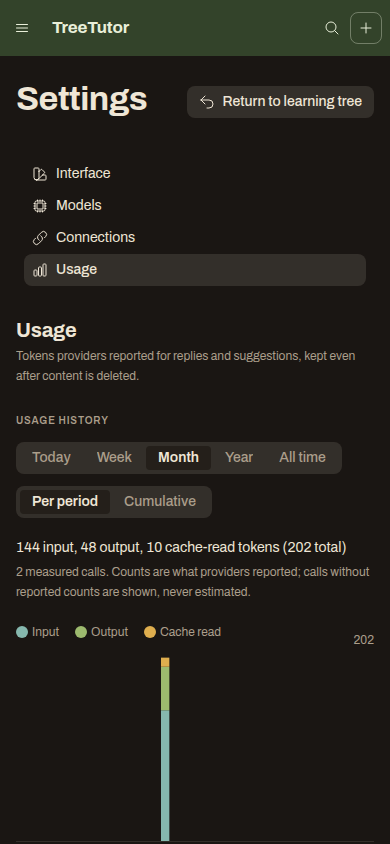
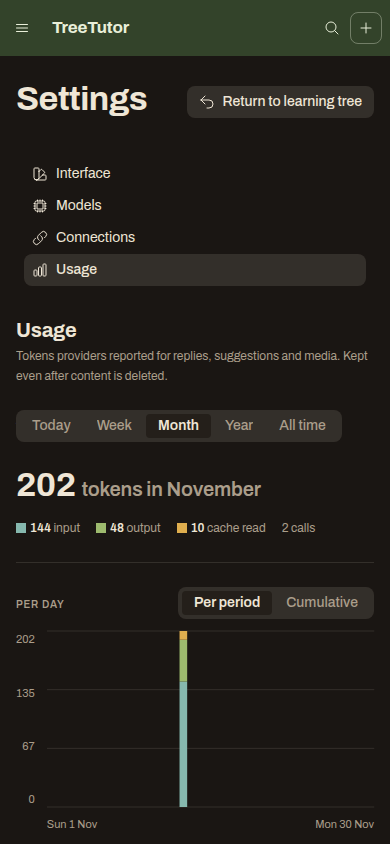
task: TreeTutor-2li.11 Usage page redesign

diff --git a/src/UsageDashboard.tsx b/src/UsageDashboard.tsx
@@ -11,38 +11,47 @@ import { breakdown, buckets, label, span, total, totals, type Totals, type Usage
 const SERIES = [['input', 'Input'], ['output', 'Output'], ['cacheRead', 'Cache read']] as const;
 const TASKS: Record<string, string> = { chat: 'Chat replies', suggestions: 'Suggestions', compaction: 'Context preparation', diagram: 'Visuals and diagrams', video: 'Videos' };
 const n = (v: number) => v.toLocaleString();
-const counts = (t: Totals) => `${n(t.input)} input, ${n(t.output)} output, ${n(t.cacheRead)} cache-read tokens (${n(total(t))} total)`;
-const calls = (t: Totals) => `${n(t.calls)} measured call${t.calls === 1 ? '' : 's'}${t.unavailable ? `, ${n(t.unavailable)} without reported counts` : ''}`;
+const counts = (t: Totals) => !t.calls && t.unavailable ? 'Token counts not reported' : `${n(t.input)} input, ${n(t.output)} output, ${n(t.cacheRead)} cache-read tokens (${n(total(t))} total)`;
+const calls = (t: Totals) => `${n(t.calls + t.unavailable)} call${t.calls + t.unavailable === 1 ? '' : 's'}${t.unavailable ? `, ${n(t.unavailable)} without reported counts` : ''}`;
 // A group with only unreported calls shows a dash, not zero tokens.
-const cell = (r: any, key: string) => r.calls === 0 && r.unavailable ? '—' : n(r[key]);
-const columns = (first: string) => [{ key: 'name', header: first, width: proportional(2) }, ...['input', 'output', 'cacheRead', 'total'].map(key => ({ key, header: SERIES.find(([k]) => k === key)?.[1] ?? 'Total', align: 'end' as const, renderCell: (r: any) => cell(r, key) })),
-  ...([['calls', 'Calls'], ['unavailable', 'Unreported']] as const).map(([key, header]) => ({ key, header, align: 'end' as const, renderCell: (r: any) => n(r[key]) }))];
+const cell = (r: Totals, key: 'input' | 'output' | 'cacheRead' | 'total') => r.calls === 0 && r.unavailable ? '—' : n(key === 'total' ? total(r) : r[key]);
+type Row = ReturnType<typeof breakdown>[number];
+const columns = (first: string, sum?: Totals) => [{ key: 'name', header: first, width: proportional(2, { minWidth: 180 }), renderCell: (r: Row) => {
+  const share = sum && total(sum) ? r.total / total(sum) * 100 : 0;
+  return <div className="usage-name">{r.name}{sum && <span className="usage-share" role="img" aria-label={`${share.toLocaleString(undefined, { maximumFractionDigits: 1 })}% of reported tokens`}><i style={{ width: `${share}%` }} /></span>}</div>;
+} }, ...(['input', 'output', 'cacheRead', 'total'] as const).map(key => ({ key, header: SERIES.find(([k]) => k === key)?.[1] ?? 'Total', width: proportional(1, { minWidth: key === 'cacheRead' ? 90 : 75 }), align: 'end' as const, renderCell: (r: Row) => cell(r, key) })),
+{ key: 'calls', header: 'Calls', width: proportional(1, { minWidth: 90 }), align: 'end' as const, renderCell: (r: Row) => <span>{n(r.calls + r.unavailable)}{r.unavailable > 0 && <small className="usage-unreported">{n(r.unavailable)} unreported</small>}</span> }];
 
 // Reads saved usage records only; viewing never calls a model.
-export default function UsageDashboard({ api }: { api: (path: string) => Promise<any> }) {
+export default function UsageDashboard({ api, providers }: { api: (path: string) => Promise<any>; providers?: Record<string, { label: string }> }) {
   const now = new Date();
   const [range, setRange] = useState<UsageRange>('month');
   const [year, setYear] = useState(now.getFullYear());
   const [cumulative, setCumulative] = useState(false);
-  const [data, setData] = useState<{ first: number | null; events: UsageEvent[] } | null>(null);
+  const [group, setGroup] = useState('model');
+  const [data, setData] = useState<{ first: number | null; events: UsageEvent[]; selection: string } | null>(null);
   const [error, setError] = useState('');
   const [active, setActive] = useState(-1);
   const chart = useRef<SVGSVGElement>(null);
+  const selection = `${range}:${year}`;
   useEffect(() => {
     let current = true;
+    setError('');
     const s = span(range, new Date(), year, null);
-    api(range === 'all' ? '/api/usage' : `/api/usage?from=${+s.from}&to=${+s.to}`).then(d => { if (current) { setData(d); setError(''); setActive(-1); } }, e => { if (current) setError(e.message); });
+    api(range === 'all' ? '/api/usage' : `/api/usage?from=${+s.from}&to=${+s.to}`).then(d => { if (current) { setData({ ...d, selection }); setActive(-1); } }, e => { if (current) setError(e.message); });
     return () => { current = false; };
   }, [range, year]);
 
   const s = span(range, now, year, data?.first ?? null), unit = s.unit;
-  const events = data?.events ?? [], rows = buckets(events, s, cumulative), sum = totals(events);
+  const ready = data?.selection === selection;
+  const events = ready ? data.events : [], rows = buckets(events, s, cumulative), sum = totals(events);
   const max = Math.max(1, ...rows.map(total)), shown = rows[active];
+  const rangeLabel = { today: 'today', week: 'this week', month: `in ${now.toLocaleDateString(undefined, { month: 'long' })}`, year: `in ${year}`, all: 'all time' }[range];
   const years = Array.from({ length: now.getFullYear() - new Date(data?.first ?? now).getFullYear() + 1 }, (_, i) => String(now.getFullYear() - i));
   const move = (i: number) => { const next = Math.max(0, Math.min(rows.length - 1, i)); setActive(next); chart.current?.querySelectorAll<SVGGElement>('.usage-bar')[next]?.focus(); };
   const periodLabel = (i: number) => label(rows[i].start, unit) + (cumulative ? ' (cumulative)' : '');
 
-  return <VStack gap={5}>
+  return <VStack gap={6} className="usage-dashboard" aria-busy={!ready && !error}>
     <HStack gap={3} wrap="wrap" vAlign="end">
       <SegmentedControl label="Usage range" value={range} onChange={v => setRange(v as UsageRange)}>
         <SegmentedControlItem value="today" label="Today" />
@@ -52,47 +61,63 @@ export default function UsageDashboard({ api }: { api: (path: string) => Promise
         <SegmentedControlItem value="all" label="All time" />
       </SegmentedControl>
       {range === 'year' && <Selector label="Year" isLabelHidden options={years} value={String(year)} onChange={v => setYear(Number(v))} width="7rem" />}
-      <SegmentedControl label="Chart view" value={cumulative ? 'cumulative' : 'trend'} onChange={v => setCumulative(v === 'cumulative')}>
-        <SegmentedControlItem value="trend" label="Per period" />
-        <SegmentedControlItem value="cumulative" label="Cumulative" />
-      </SegmentedControl>
     </HStack>
     {error && <Banner status="error" title="Usage history could not load" description={error} />}
-    {data && <>
-      {events.length > 0 && <VStack gap={1}>
-        <Text className="usage-total">{counts(sum)}</Text>
-        <Text type="supporting" color="secondary">{calls(sum)}. Counts are what providers reported; calls without reported counts are shown, never estimated.</Text>
-      </VStack>}
+    {!ready && !error && <Text color="secondary" role="status">Loading usage history…</Text>}
+    {ready && <>
+      <VStack gap={3} className="usage-summary">
+        <Text className="usage-total">{cell(sum, 'total')} <small>tokens {rangeLabel}</small></Text>
+        <HStack gap={4} wrap="wrap" vAlign="center" className="usage-legend">
+          {SERIES.map(([key, name]) => <HStack key={key} gap={1} vAlign="center"><span className="usage-swatch" data-series={key} aria-hidden="true" /><Text type="supporting" color="secondary"><b>{cell(sum, key)}</b> {name.toLowerCase()}</Text></HStack>)}
+          <Text type="supporting" color="secondary">{calls(sum)}</Text>
+        </HStack>
+      </VStack>
       {events.length === 0
         ? <Text color="secondary" className="usage-empty">No usage recorded in this range. Replies and suggestions add to this history as providers report their tokens.</Text>
-        : <VStack gap={2}>
-          <HStack gap={4} wrap="wrap" className="usage-legend" aria-hidden>{SERIES.map(([key, name]) => <HStack key={key} gap={1} vAlign="center"><span className="usage-swatch" data-series={key} /><Text type="supporting">{name}</Text></HStack>)}</HStack>
+        : <VStack gap={3} as="section" className="usage-section" aria-labelledby="usage-chart-heading">
+          <HStack hAlign="between" vAlign="center" gap={3} wrap="wrap" className="usage-section-head">
+            <Heading level={3} id="usage-chart-heading">Per {unit}</Heading>
+            <SegmentedControl label="Chart view" value={cumulative ? 'cumulative' : 'trend'} onChange={v => { setCumulative(v === 'cumulative'); setActive(-1); }}>
+              <SegmentedControlItem value="trend" label="Per period" />
+              <SegmentedControlItem value="cumulative" label="Cumulative" />
+            </SegmentedControl>
+          </HStack>
           <div className="usage-chart">
-            <Text type="supporting" color="secondary" className="usage-max" aria-hidden>{n(max)}</Text>
+            <div className="usage-scale" aria-hidden="true">{[max, max * 2 / 3, max / 3, 0].map((v, i) => <span key={i}>{n(Math.round(v))}</span>)}</div>
             <svg ref={chart} viewBox={`0 0 ${rows.length * 10} 100`} preserveAspectRatio="none" role="group" aria-label={`${cumulative ? 'Cumulative' : 'Per-period'} token usage by ${unit}. Use arrow keys to read each ${unit}.`} onMouseLeave={() => setActive(-1)}>
+              {[0, 100 / 3, 200 / 3, 100].map(y => <line key={y} className="usage-grid" x1={0} x2={rows.length * 10} y1={y} y2={y} />)}
               {rows.map((r, i) => {
                 let y = 100;
                 return <g key={+r.start} className="usage-bar" data-active={i === active} tabIndex={i === Math.max(active, 0) ? 0 : -1} role="img" aria-label={`${periodLabel(i)}: ${counts(r)}; ${calls(r)}`}
                   onMouseEnter={() => setActive(i)} onFocus={() => setActive(i)}
                   onKeyDown={e => { const to = { ArrowLeft: i - 1, ArrowRight: i + 1, Home: 0, End: rows.length - 1 }[e.key]; if (to !== undefined) { e.preventDefault(); move(to); } }}>
                   <rect className="usage-hit" x={i * 10} y={0} width={10} height={100} />
-                  {SERIES.map(([key]) => { const h = r[key] / max * 96; y -= h; return h > 0 && <rect key={key} data-series={key} x={i * 10 + 1.5} y={y} width={7} height={h} />; })}
+                  {SERIES.map(([key]) => { const h = r[key] / max * 100; y -= h; return h > 0 && <rect key={key} data-series={key} x={i * 10 + 1.5} y={y} width={7} height={h} />; })}
                 </g>;
               })}
             </svg>
-            <HStack hAlign="between" className="usage-axis" aria-hidden><Text type="supporting" color="secondary">{label(rows[0].start, unit)}</Text><Text type="supporting" color="secondary">{label(rows.at(-1)!.start, unit)}</Text></HStack>
+            <HStack hAlign="between" gap={2} className="usage-axis" aria-hidden><Text type="supporting" color="secondary">{label(rows[0].start, unit)}</Text>{rows.length > 2 && <Text type="supporting" color="secondary">{label(rows[Math.floor(rows.length / 2)].start, unit)}</Text>}<Text type="supporting" color="secondary">{label(rows.at(-1)!.start, unit)}</Text></HStack>
           </div>
           <Text type="supporting" aria-live="polite" className="usage-readout">{shown ? `${periodLabel(active)}: ${counts(shown)}; ${calls(shown)}` : 'Hover or focus a bar for its exact values.'}</Text>
           <Collapsible defaultIsOpen={false} trigger={<Text>Values for each {unit}</Text>}>
-            <Table density="compact" data={rows.map((r, i) => ({ id: +r.start, name: periodLabel(i), ...r, total: total(r) }))} idKey="id" columns={columns(unit[0].toUpperCase() + unit.slice(1))} />
+            <Table aria-label={`Values for each ${unit}`} density="compact" textOverflow="wrap" data={rows.map((r, i) => ({ id: +r.start, name: periodLabel(i), ...r, total: total(r) }))} idKey="id" columns={columns(unit[0].toUpperCase() + unit.slice(1))} />
           </Collapsible>
         </VStack>}
-      {events.length > 0 && <>
-        <VStack gap={2}><Heading level={4}>By model</Heading>
-          <Table density="compact" data={breakdown(events, e => e.model ? `${e.model} (${e.provider})` : e.provider ? `${e.provider}, model not reported` : 'Unknown model (saved before attribution)')} idKey="name" columns={columns('Model')} /></VStack>
-        <VStack gap={2}><Heading level={4}>By task</Heading>
-          <Table density="compact" data={breakdown(events, e => TASKS[e.task] ?? e.task)} idKey="name" columns={columns('Task')} /></VStack>
-      </>}
+      {events.length > 0 && <VStack gap={3} as="section" className="usage-section usage-breakdown" aria-labelledby="usage-breakdown-heading">
+        <HStack hAlign="between" vAlign="center" gap={3} wrap="wrap" className="usage-section-head">
+          <Heading level={3} id="usage-breakdown-heading">Breakdown</Heading>
+          <SegmentedControl label="Break down by" value={group} onChange={setGroup}>
+            <SegmentedControlItem value="model" label="By model" />
+            <SegmentedControlItem value="task" label="By task" />
+          </SegmentedControl>
+        </HStack>
+        <Table aria-label={`Usage by ${group}`} density="compact" textOverflow="wrap" data={breakdown(events, e => {
+          if (group === 'task') return TASKS[e.task] ?? e.task;
+          const provider = e.provider ? providers?.[e.provider]?.label ?? e.provider : null;
+          return e.model ? `${e.model} (${provider ?? 'provider not reported'})` : provider ? `${provider}, model not reported` : 'Unknown model (saved before attribution)';
+        })} idKey="name" columns={columns(group === 'model' ? 'Model' : 'Task', sum)} />
+        <Text type="supporting" color="secondary">Counts are what providers reported. Calls without counts are listed, never estimated. Shares use reported tokens only.</Text>
+      </VStack>}
     </>}
   </VStack>;
 }

diff --git a/src/layout.ts b/src/layout.ts
@@ -202,9 +202,17 @@ html { view-transition-name: none; }
 .chat-question:not(:first-child) { margin-block-start: calc(3 * var(--treetutor-module)); }
 /* Streaming: a leaf caret after the last written block (mockup Read). */
 .chat-reply:has(.reply-status[data-status=streaming]) .reply-md > :last-child:is(p, ul, ol, blockquote)::after { content: ''; display: inline-block; width: 8px; height: 1.1em; margin-inline-start: 2px; background: var(--color-accent); vertical-align: -0.2em; }
-.usage-chart { position: relative; display: grid; gap: var(--spacing-1); }
-.usage-chart svg { width: 100%; height: 12rem; display: block; overflow: visible; border-block-end: 1px solid var(--color-border); }
-.usage-max { position: absolute; inset-block-start: 0; inset-inline-end: 0; transform: translateY(-100%); font-variant-numeric: tabular-nums; }
+.usage-total.astryx-text { font-size: 34px; line-height: 1.12; font-weight: 700; letter-spacing: -0.015em; }
+.usage-total small { font-size: 20px; font-weight: 600; letter-spacing: -0.01em; color: var(--color-text-secondary); }
+.usage-legend b { font-weight: 600; color: var(--color-text-primary); }
+.usage-section { padding-block-start: var(--spacing-6); border-block-start: 1px solid var(--color-border); }
+.usage-section-head h3 { color: var(--color-text-secondary); }
+.usage-chart { display: grid; grid-template-columns: max-content minmax(0, 1fr); gap: var(--spacing-2) var(--spacing-3); }
+.usage-chart svg { width: 100%; height: 11rem; display: block; overflow: visible; }
+.usage-scale { display: flex; flex-direction: column; justify-content: space-between; height: 11rem; text-align: end; font-size: 11px; color: var(--color-text-secondary); }
+.usage-grid { stroke: var(--color-border); stroke-width: 1px; vector-effect: non-scaling-stroke; }
+.usage-axis { grid-column: 2; }
+.usage-axis .astryx-text { font-size: 11px; }
 .usage-bar { outline: none; cursor: default; }
 .usage-hit { fill: transparent; }
 .usage-bar[data-active=true] .usage-hit { fill: var(--color-background-muted); }
@@ -212,9 +220,14 @@ html { view-transition-name: none; }
 [data-series=input] { fill: var(--color-icon-blue); background: var(--color-icon-blue); }
 [data-series=output] { fill: var(--color-icon-green); background: var(--color-icon-green); }
 [data-series=cacheRead] { fill: var(--color-icon-yellow); background: var(--color-icon-yellow); }
-.usage-swatch { inline-size: 0.75rem; block-size: 0.75rem; border-radius: var(--radius-inner); display: inline-block; }
-.usage-total, .usage-readout, .usage-chart td { font-variant-numeric: tabular-nums; }
+.usage-swatch { inline-size: 10px; block-size: 10px; border-radius: var(--radius-tick); display: inline-block; }
+.usage-dashboard { font-variant-numeric: tabular-nums; }
 .usage-readout { min-block-size: 1.5em; }
+.usage-name { overflow-wrap: anywhere; }
+.usage-share { display: block; height: 3px; margin-block-start: var(--spacing-1); border-radius: var(--radius-tick); background: var(--color-border); }
+.usage-share i { display: block; height: 100%; border-radius: inherit; background: var(--color-text-secondary); }
+.usage-unreported { display: block; font-size: 12px; color: var(--color-text-secondary); }
+@media (max-width: 48rem) { .usage-axis .astryx-text:nth-child(2):not(:last-child) { display: none; } }
 .code-copy { position: absolute; inset-block-start: var(--spacing-1); inset-inline-end: var(--spacing-1); opacity: 0; transition: opacity 120ms ease; }
 .reply-md pre:is(:hover, :focus-within) .code-copy { opacity: 1; }
 @media (hover: none) { .code-copy { opacity: 1; } }

diff --git a/src/SettingsWindow.tsx b/src/SettingsWindow.tsx
@@ -28,7 +28,7 @@ const TABS: { id: SettingsTab; label: string; description: string; icon: typeof 
   { id: 'interface', label: 'Interface', description: 'How TreeTutor looks and how you move around it. Saved in this browser.', icon: SwatchIcon },
   { id: 'models', label: 'Models', description: 'A profile holds a model and effort for each role. Swapping profiles changes all three at once.', icon: CpuChipIcon },
   { id: 'connections', label: 'Connections', description: 'Providers that answer your questions. Trees save on this computer; questions go to the provider you pick for each conversation.', icon: LinkIcon },
-  { id: 'usage', label: 'Usage', description: 'Tokens providers reported for replies and suggestions, kept even after content is deleted.', icon: ChartBarIcon },
+  { id: 'usage', label: 'Usage', description: 'Tokens providers reported for replies, suggestions and media. Kept even after content is deleted.', icon: ChartBarIcon },
 ];
 
 // Map keys (TreeOverview handlers); Esc is ChatPage's close.
@@ -106,7 +106,7 @@ export default function SettingsWindow({ request, close, api, models, providers,
 
   // One page at a time (mockup Settings); the nav picks the page.
   const panel = <VStack gap={8} className="settings-panel">
-    {tab === 'usage' && group('usage', <Section title="Usage history"><UsageDashboard api={api} /></Section>)}
+    {tab === 'usage' && group('usage', <UsageDashboard api={api} providers={providers} />)}
     {tab === 'interface' && group('interface', <>
       <Section title="Appearance" description="Dark, light, or System to follow your operating system. Saved in this browser.">
         <RadioList label="Appearance" isLabelHidden value={appearance} onChange={value => setAppearance(value as Appearance)}>

diff --git a/.impeccable/surfaces/index-html.md b/.impeccable/surfaces/index-html.md
@@ -40,3 +40,17 @@ FINISH: unreviewed and undocumented is unfinished; this build ends with the fini
 - No idle "Saved" label: layout writes batch once a minute, so only the failure state shows (TreeTutor-y36.3).
 - Explicit video requests reserve their place in the reply; pending shows a slim status line with phase and percentage plus Cancel; failure shows a safe reason and Retry; title and description stay accessible (TreeTutor-133.1, TreeTutor-zhf.6, evidence in docs/verification/inline-video-review.md).
 - Copy buttons on replies and code blocks, and title search across learning trees, remain adopted features.
+
+### Usage page (TreeTutor-2li.11)
+
+THESIS: Operate mode; read saved provider-reported usage in the existing Settings page. One selected range drives the summary, chart and breakdown. Calls include all attempts; missing-only token counts show a dash, never an estimate.
+
+OWN-WORLD: Extend Paperback Series without changing its tokens. Archivo and tabular figures, seam-separated sections, house Astryx controls and tables; input is lichen, output leaf and cache read amber in both appearances. Server-supplied labels name providers.
+
+STORY: Choose Today, Week, Month, a selected Year or All time; read the exact total and measured input/output/cache-read split, then inspect a period or switch the single breakdown between model and task. The split doubles as the chart legend. Viewing history never calls a provider.
+
+FIRST VIEWPORT: Keep the Settings heading and section nav. A 34px exact total carries a 20px range qualifier above the split and call count. The chart's per-period/cumulative switch sits beside its small-caps heading; hover and keyboard focus expose exact values, with an expandable text table. The breakdown uses one table with 3px bars showing shares of reported tokens only. Narrow layouts wrap controls and keep table scrolling within the page.
+
+FORM: Code-led ordinary extension, composition pinned by `docs/mockups/usage.html`; no new world, seed or tournament. Compare `src/UsageDashboard.tsx`, its Settings caller and `src/layout.ts` with PRODUCT.md, DESIGN.md and this surface contract. Preserve the parent direction and system files.
+
+FINISH: Independent finish review verdict **ship** (2026-11-13): all ten Usage captures, the approved mockup, source and verification report inspected; no material findings. Recorded verification: build and `npm test` pass; `docs/verification/usage-dashboard.json` records 17 browser steps across dark/light at 1400×900 and 390×844, both chart and grouping modes, every range, a previous year, delayed-response selection changes, missing-only and empty states, and no provider calls. Settings regression checks pass (12 steps). Captures are `docs/verification/usage-dashboard-*.png`; these are verification evidence, not shipping rasters. Pre-existing drift: DESIGN.md is newer than `.impeccable/design.json`; reported without repair.
